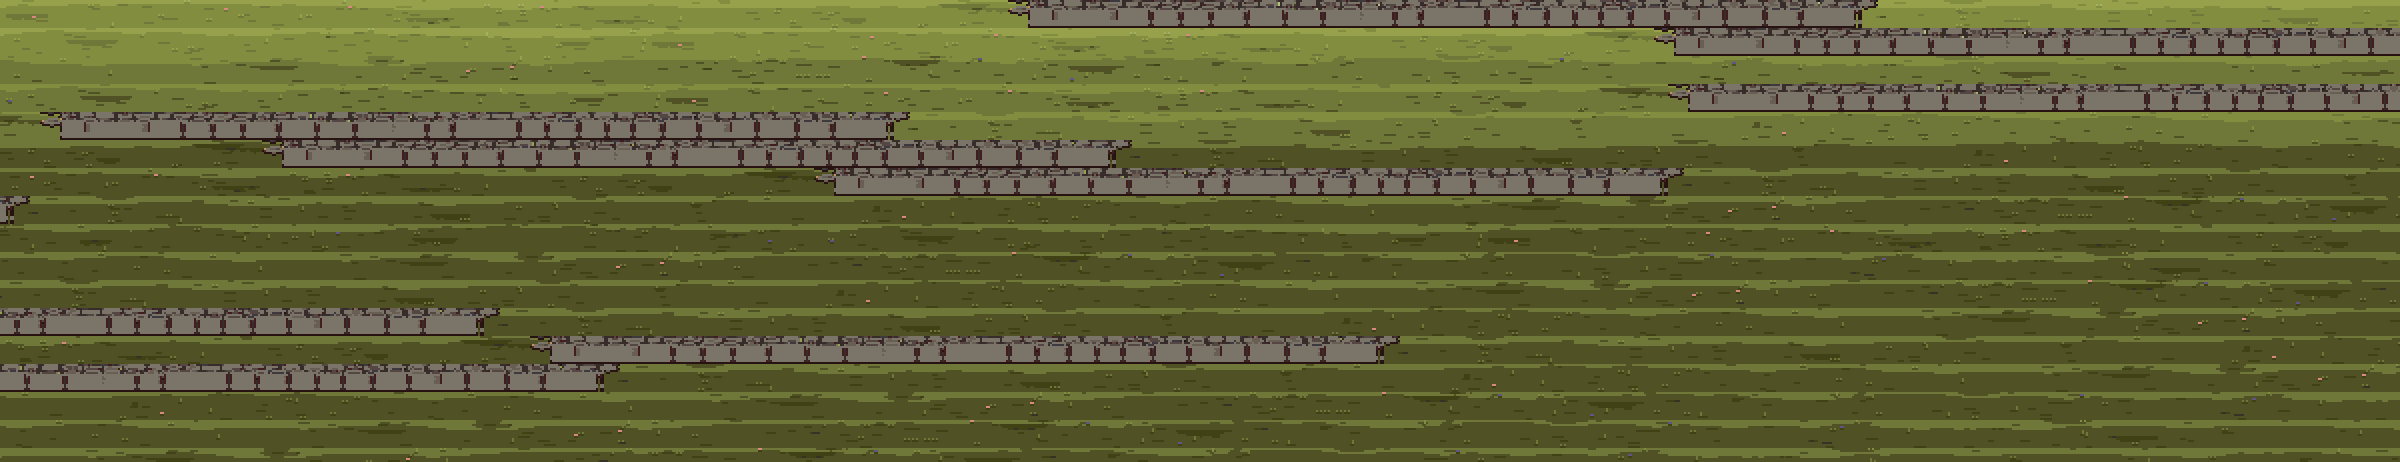
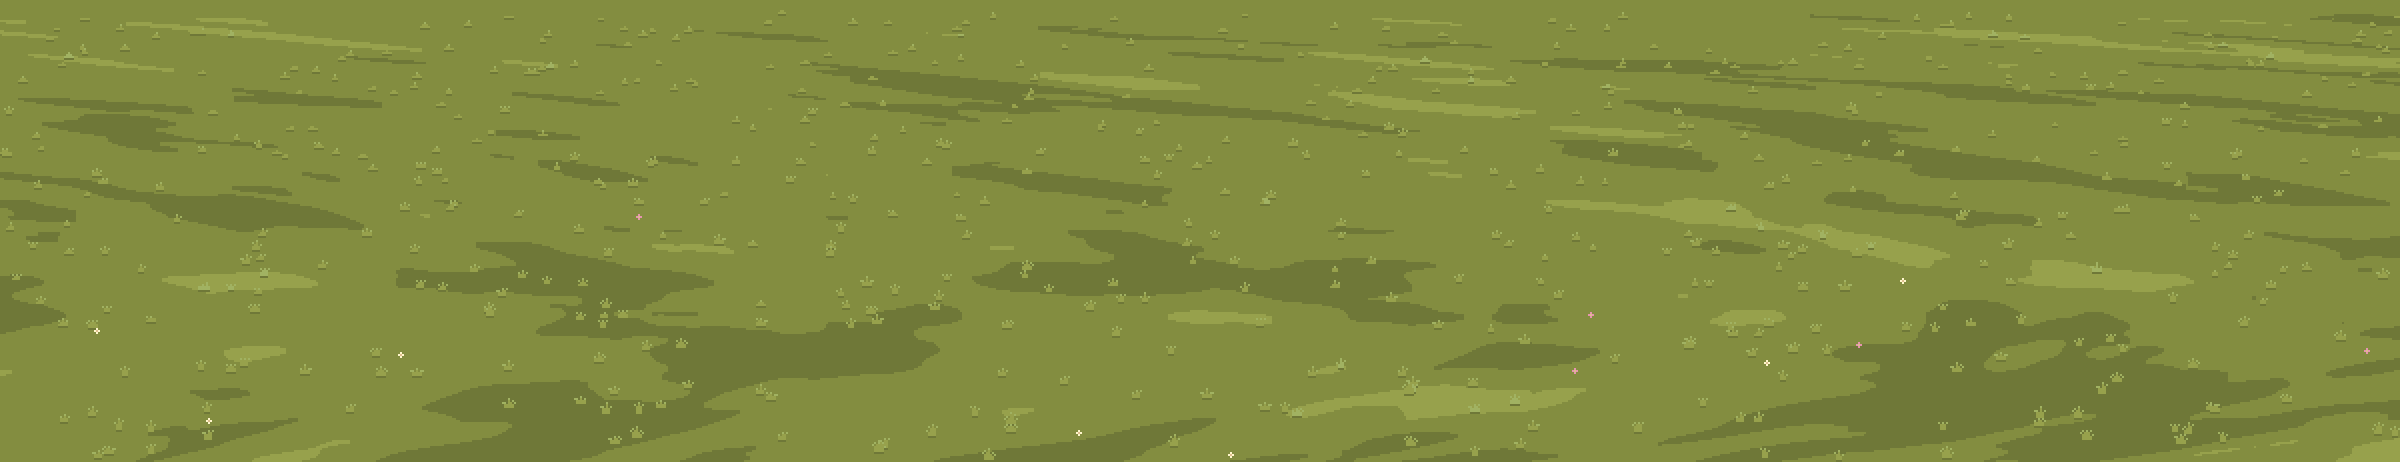
Town: the ground in front of the walk drawn for that place
Lawn: one body colour with whole dark and light patches that grow toward the
camera, tufts and a few daisies; paving: flagstones in courses that grow
toward the camera. Replaces the stacked copies of the tile's plane rows.

Claude-Session: https://claude.ai/code/session_01FzDataYedfiK9tzFLcKdoU

diff --git a/tools/make_town_field.py b/tools/make_town_field.py
@@ -1,62 +1,165 @@
 #!/usr/bin/env python3
-# python3 tools/make_town_field.py
-# The lawn in front of the walk (owner 2026-11-08: "풀 타일부터 근경까지 풀로 이어지게 할거임"; sketch 5): below the
-# walk's front edge the town's earth section gives way to the same lawn running on toward the camera. Built from
-# the lawn tile's own plane rows (assets/town/k_lawn_0..3, rows 30..57), stacked in blocks each slid sideways so the
-# repeat does not show, the nearer blocks one step down the lawn ramp (row 4 of assets/town/palette.png, never a
-# darker mix). Out: assets/town/k_field_0..3.png (2400-px pieces like the tiles; town.gd joins them).
-# Also the paving's own (owner 2026-11-09: "하단 길은 바닥 타일이 돌이니까 풀이 아니라 돌 타일로 확장해야지"): the
-# stone tile's plane rows the same way, not slid far (the paving stays where it is), each block offset half a stone
-# so the courses alternate. Out: assets/town/k_field_stone_0..3.png
+# python3 tools/make_town_field.py [OUTDIR]
+# The ground in front of the walk, drawn for that place (owner 2026-11-09: "하단 확장 타일들 기존 거 복붙복붙만 하지말고
+# 전용으로 따로 만들어"). Before, the tile's plane rows were stacked again and again (bands that repeat); now:
+#  - the lawn (owner 2026-11-08: "풀 타일부터 근경까지 풀로 이어지게 할거임"): one body colour of the lawn ramp (row 4 of
+#    assets/town/palette.png, the plane's own front colour) with darker and lighter patches as whole shapes (no
+#    speckle: lone cells and one-cell spurs taken out), the patches flat and wide far off and larger, rounder and a
+#    little more often dark toward the camera; grass tufts and a few flower clusters, bigger the nearer they are;
+#  - the paving (owner 2026-11-09: "하단 길은 바닥 타일이 돌이니까 풀이 아니라 돌 타일로 확장해야지"): cobbles of the
+#    paving's stone ramp (row 8) in courses that grow toward the camera, each stone one body colour with its lower edge
+#    a step darker and its corners cut round, dark joints, a little moss in the joints.
+# Everything on the 2-px cell grid, palette colours only. Out: k_field_0..3.png, k_field_stone_0..3.png (2400-px pieces).
+import os
+import sys
 import numpy as np
 from PIL import Image
 
-ROWS = (30, 58)           # the plane rows copied (the back of the plane is the far end, these are near and even)
-H = 462                   # town.gd's ground solid is 520 deep; the field starts at row 58
-P = np.array(Image.open("assets/town/palette.png").convert("RGB")).astype(int)
-ramp = [tuple(P[4, i]) for i in range(8)]
-lawn = np.concatenate([np.array(Image.open(f"assets/town/k_lawn_{i}.png").convert("RGBA")) for i in range(4)], 1)
-plane = lawn[ROWS[0]:ROWS[1]]
-W = lawn.shape[1]
-bh = plane.shape[0]
-out = np.zeros((H, W, 4), np.uint8)
-rng = np.random.default_rng(5)
+ROOT = os.path.dirname(os.path.dirname(os.path.abspath(__file__)))
+OUT = sys.argv[1] if len(sys.argv) > 1 else os.path.join(ROOT, "assets/town")
+P = np.array(Image.open(os.path.join(ROOT, "assets/town/palette.png")).convert("RGB"))
+c = lambda r, i: tuple(int(v) for v in P[r, i])
+W, H = 4800, 231                    # cells (2 px): 9600 x 462 px; town.gd puts row 0 under the plane's last row
+rng = np.random.default_rng(11)
+
+# ---------- value noise at any (u, v) ----------
+def _hash(ix, iy, s):
+    h = (ix * 374761393 + iy * 668265263 + s * 2147483647) & 0xFFFFFFFF
+    h = ((h ^ (h >> 13)) * 1274126177) & 0xFFFFFFFF
+    return ((h ^ (h >> 16)) & 0xFFFF) / 65535.0
+
+def vnoise(u, v, s):
+    iu, iv = np.floor(u).astype(np.int64), np.floor(v).astype(np.int64)
+    fu, fv = u - iu, v - iv
+    fu, fv = fu * fu * (3 - 2 * fu), fv * fv * (3 - 2 * fv)
+    a, b = _hash(iu, iv, s), _hash(iu + 1, iv, s)
+    cc, d = _hash(iu, iv + 1, s), _hash(iu + 1, iv + 1, s)
+    return (a * (1 - fu) + b * fu) * (1 - fv) + (cc * (1 - fu) + d * fu) * fv
+
+ys = np.arange(H, dtype=float)
+sc = 1.0 + ys / H * 1.6                       # how big things are at a row: 1 at the walk's edge, 2.6 nearest
+vrow = np.cumsum(1.0 / sc)                    # depth measured in "far" cells, so features grow toward the camera
+asp = 4.0 - ys / H * 2.0                      # patches flat far off (4 : 1), rounder near (2 : 1)
+X, Y = np.meshgrid(np.arange(W, dtype=float), ys)
+V = vrow[:, None] * np.ones((1, W))
+S_, A_ = sc[:, None], asp[:, None]
 
 
-def darker(a, n):
-    if n == 0: return a
-    b = a.copy()
-    for i, c in enumerate(ramp):
-        m = (a[..., 0] == c[0]) & (a[..., 1] == c[1]) & (a[..., 2] == c[2])
-        b[m, :3] = ramp[max(0, i - n)]
-    return b
+def clean(lab, keep=()):
+    # a cell that no 4-neighbour shares takes the label most neighbours have; a one-cell spur (only one neighbour the
+    # same) too: patches stay whole shapes
+    for _ in range(3):
+        p = np.pad(lab, 1, mode="edge")
+        nb = np.stack([p[:-2, 1:-1], p[2:, 1:-1], p[1:-1, :-2], p[1:-1, 2:]])
+        same = (nb == lab[None]).sum(0)
+        ch = same <= 1
+        for k in keep: ch &= lab != k
+        if not ch.any(): break
+        vals = np.stack([(nb == k).sum(0) for k in range(lab.max() + 1)])
+        lab = np.where(ch, vals.argmax(0), lab)
+    return lab
 
 
-y = 0
-k = 0
-while y < H:
-    sh = int(rng.integers(0, W // 2)) // 2 * 2
-    blk = np.roll(plane, sh, 1)
-    blk = darker(blk, 0 if y < 36 else 1 if y < 120 else 2)
-    n = min(bh, H - y)
-    out[y:y + n] = blk[:n]
-    y += n
-    k += 1
-for i in range(4):
-    Image.fromarray(out[:, i * 2400:(i + 1) * 2400]).save(f"assets/town/k_field_{i}.png")
-print("field", out.shape)
+def to_png(lab, cols, name):
+    rgb = np.zeros((H, W, 4), np.uint8)
+    for k, col in enumerate(cols):
+        rgb[lab == k, :3] = col
+    rgb[..., 3] = 255
+    big = rgb.repeat(2, 0).repeat(2, 1)
+    for i in range(4):
+        Image.fromarray(big[:, i * 2400:(i + 1) * 2400]).save(os.path.join(OUT, f"{name}_{i}.png"))
+    return len({tuple(v) for v in rgb[..., :3].reshape(-1, 3)})
 
-stone = np.concatenate([np.array(Image.open(f"assets/town/k_stone_{i}.png").convert("RGBA")) for i in range(4)], 1)
-splane = stone[ROWS[0]:ROWS[1]]
-out = np.zeros((H, W, 4), np.uint8)
-y, k = 0, 0
-while y < H:
-    blk = np.roll(splane, (k % 2) * 8, 1)
-    blk = darker(blk, 0 if y < 36 else 1 if y < 120 else 2)
-    n = min(bh, H - y)
-    out[y:y + n] = blk[:n]
-    y += n
-    k += 1
-for i in range(4):
-    Image.fromarray(out[:, i * 2400:(i + 1) * 2400]).save(f"assets/town/k_field_stone_{i}.png")
-print("field stone", out.shape)
+
+# ---------- the lawn ----------
+DARK, BODY, LIGHT, TIP, ROOT_, PINK, WHITE, YEL = range(8)
+LAWN = [c(4, 3), c(4, 4), c(4, 5), c(4, 6), c(4, 2), c(7, 5), c(3, 7), c(2, 5)]
+u = X / (14.0 * A_ * S_)
+v = V / 9.0
+n = 0.6 * vnoise(u, v, 1) + 0.3 * vnoise(u * 2.1, v * 2.1, 2) + 0.1 * vnoise(u * 4.3, v * 4.3, 3)
+fade = np.clip(ys / 10.0, 0, 1)[:, None]                  # the first rows stay the plane's body colour
+t_dark = 0.30 + 0.12 * (ys / H)[:, None]                  # a little more often dark toward the camera
+t_light = 0.74 + 0.0 * Y
+lab = np.full((H, W), BODY)
+lab[(n < t_dark) & (np.abs(n - 0.5) * fade > 0.0) & (n < t_dark - (1 - fade) * 0.4)] = DARK
+lab[(n > t_light + (1 - fade) * 0.4)] = LIGHT
+lab = clean(lab)
+
+def tuft(x, y, s, under):
+    # a tuft: 3-5 blades fanning from one root, the middle ones tallest; blades one step lighter than the ground they
+    # stand on, their tips another; the root a cell of the dark under them
+    nb = int(rng.integers(3, 6))
+    hmax = max(2, int(round(2.0 * s + rng.random())))
+    lit = LIGHT if under != LIGHT else TIP
+    for b in range(nb):
+        off = b - nb // 2
+        h = max(1, hmax - abs(off) - int(rng.integers(0, 2)))
+        lean = np.sign(off) if abs(off) >= 1 else 0
+        for k in range(h):
+            xx = x + off + (lean if k >= h - 1 and h > 2 else 0)
+            yy = y - k
+            if 0 <= yy < H and 0 <= xx < W:
+                lab[yy, xx] = TIP if (k == h - 1 and h >= 3) else lit
+    if 0 <= y + 1 < H:
+        for b in range(nb):
+            xx = x + b - nb // 2
+            if 0 <= xx < W and lab[y + 1, xx] != DARK: lab[y + 1, xx] = DARK
+
+placed = []
+for y in range(6, H):
+    s = sc[y]
+    rate = 0.0035 / s                                      # the same share of the ground: fewer, bigger, near
+    for x in np.nonzero(rng.random(W) < rate)[0]:
+        tuft(int(x), y, s, lab[y, x])
+# flowers: a few small daisies (petals round a yellow heart), only where they are big enough to read, never single dots
+for _ in range(45):
+    x, y = int(rng.integers(2, W - 2)), int(rng.integers(H // 3, H - 2))
+    col = PINK if rng.random() < 0.4 else WHITE
+    for dy, dx in ((-1, 0), (0, -1), (0, 1), (1, 0)):
+        lab[y + dy, x + dx] = col
+    lab[y, x] = YEL
+print("lawn colours", to_png(lab, LAWN, "k_field"))
+
+# ---------- the paving ----------
+J, MOSS, EDGE, B0, B1 = range(5)
+STONE = [c(8, 3), c(4, 3), c(8, 5), c(8, 7), c(8, 6)]
+# the flagstones: the stones of a cobbled floor seen from the walk, laid out where the floor would be flat (x shrunk
+# and depth measured by how big things are at each row, so the stones grow toward the camera), each stone the cells
+# nearest one seed; seeds in loose courses, the stones a little wider than deep
+from scipy.spatial import cKDTree
+QX, QV = 2.2, 1.0                     # a stone's width : depth
+STEP = 4.6                            # a course's depth in "far" cells (about 9 px at the curb)
+seeds, kinds = [], []
+# courses down the screen, each as deep as the row's size says; seeds along it spaced to match
+yc = -STEP * 0.5
+while yc < H + STEP * 3:
+    s_ = 1.0 + max(0.0, yc) / H * 1.6
+    xx = -rng.random() * STEP * QX * s_
+    while xx < W + STEP * QX * 3:
+        seeds.append((xx / QX, yc + (rng.random() - 0.5) * STEP * s_ * 0.35))
+        kinds.append(B1 if rng.random() < 0.22 else B0)
+        xx += STEP * QX * s_ * (0.75 + rng.random() * 0.7)
+    yc += STEP * s_
+tree = cKDTree(np.array(seeds))
+pts = np.stack([(X / QX).ravel(), Y.ravel()], 1)
+_, near = tree.query(pts)
+sid = near.reshape(H, W)
+joint = np.zeros((H, W), bool)
+joint[:, :-1] |= sid[:, :-1] != sid[:, 1:]
+joint[:-1, :] |= sid[:-1, :] != sid[1:, :]
+lab = np.array(kinds)[sid]
+low = np.zeros((H, W), bool)
+low[:-1] = joint[1:] & ~joint[:-1]                   # a stone's lower edge: the cell above a joint
+lab[low] = EDGE
+# the corners cut round: a stone cell with joints on two sides that meet (above or below, and left or right)
+jp = np.pad(joint, 1)
+corner = (jp[:-2, 1:-1] | jp[2:, 1:-1]) & (jp[1:-1, :-2] | jp[1:-1, 2:])
+joint |= corner
+lab[joint] = J
+# a little moss in the joints, in short runs
+jy, jx = np.nonzero(lab == J)
+pick = rng.random(len(jy)) < 0.006
+for yy, xx in zip(jy[pick], jx[pick]):
+    for k in range(int(rng.integers(2, 4))):
+        if xx + k < W and lab[yy, xx + k] == J: lab[yy, xx + k] = MOSS
+print("paving colours", to_png(lab, STONE, "k_field_stone"))

diff --git a/docs/work/town-art/MEMO.md b/docs/work/town-art/MEMO.md
@@ -148,3 +148,4 @@
   → 적용: (예정) 걷는 길 앞 풀밭·돌 포장(k_field, k_field_stone)을 기존 타일 평면 줄 복사가 아니라 전용 타일로 새로 만든다.
 - 2026-11-09: "빛을 언덕 아래로도 쏘자 완전 뒤에서 오는 역광이 아닌 이상 빛이 들어올겅ㆍ님"
   → 적용: 아랫광장·비탈에 늘 깔리던 "테라스 밑 깊은 그늘"(0.55)을 해가 마을 뒤 지평선 가까이 있을 때(해 뜰 녘·질 녘)와 밤에만 남김. 낮엔 해가 들고, 구름 그림자·위쪽 물체의 해 그림자도 비탈까지 떨어짐. 가로등 보정도 같이.
+  → 적용(2026-11-09): tools/make_town_field.py를 새로 씀. 잔디 = 잔디 램프 몸통색 + 덩어리 진 짙은/밝은 패치(멀리는 납작, 가까이는 크게), 가까울수록 커지는 풀포기, 꽃은 작은 데이지 몇 개. 돌 포장 = 가까울수록 커지는 판석(보로노이), 판석마다 단색 몸통 + 아래 가장자리 한 단 어둡게 + 모서리 둥글게, 이음매 어둡게, 이끼 조금. 팔레트 색만.
